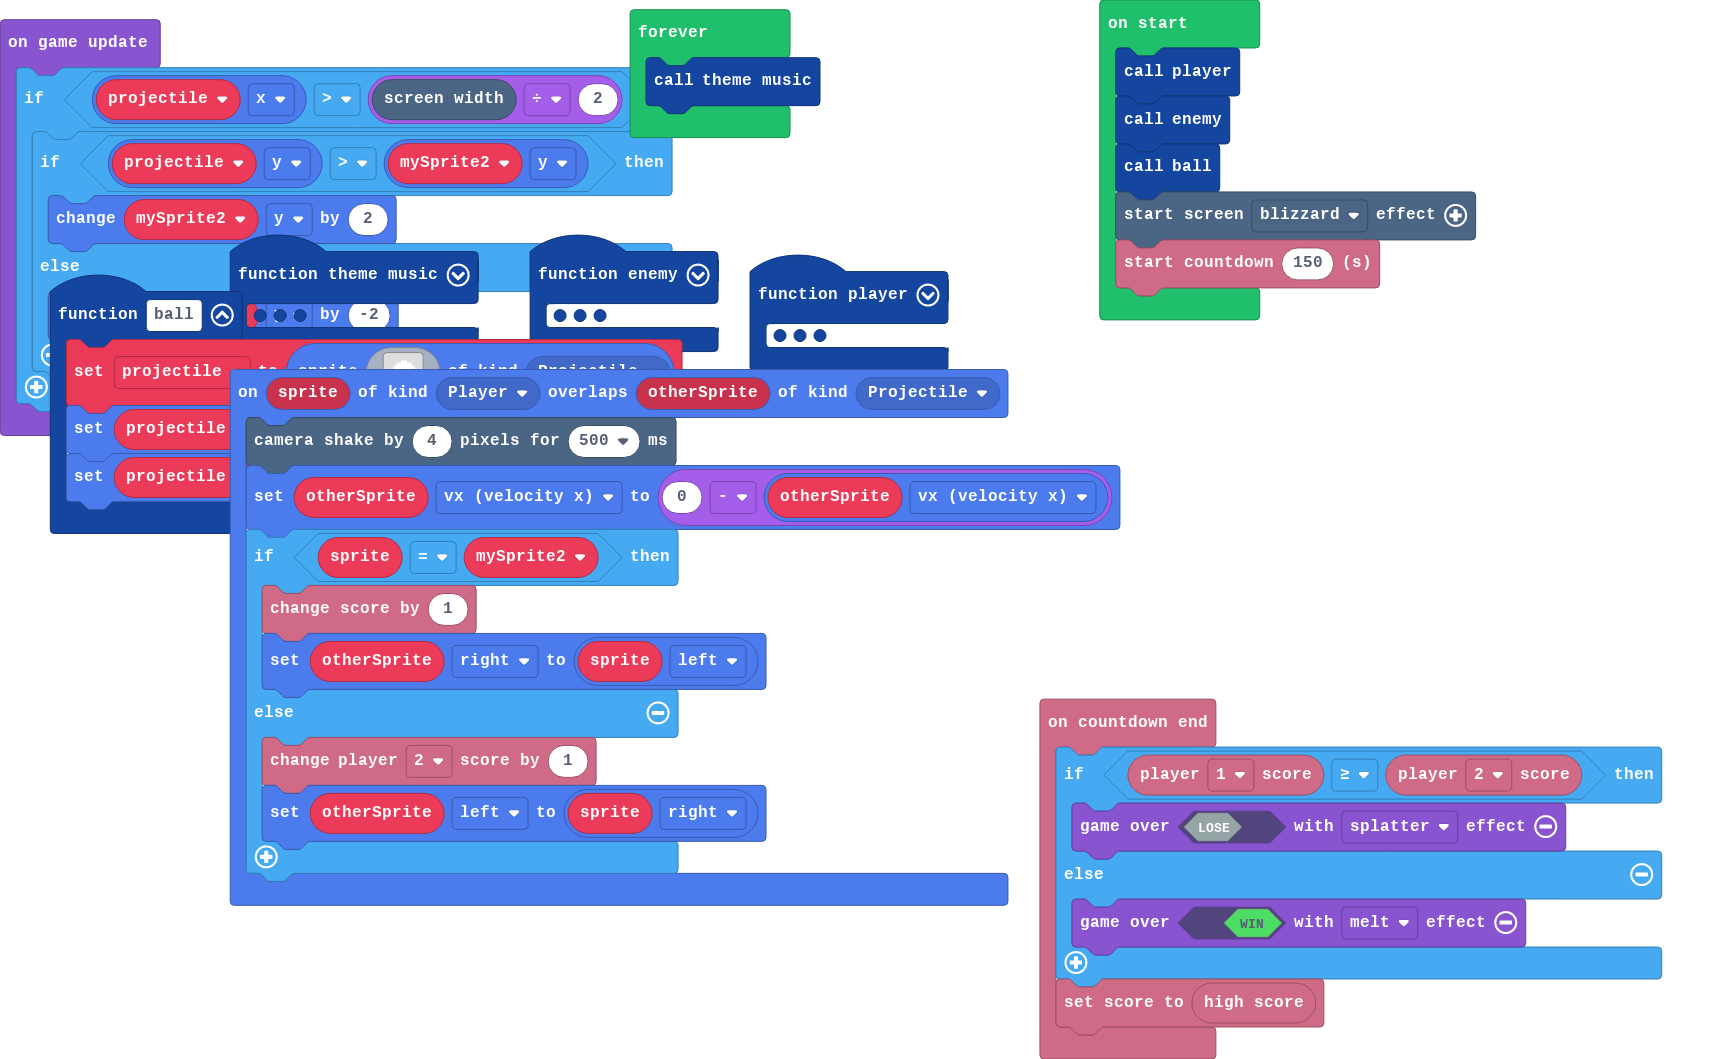
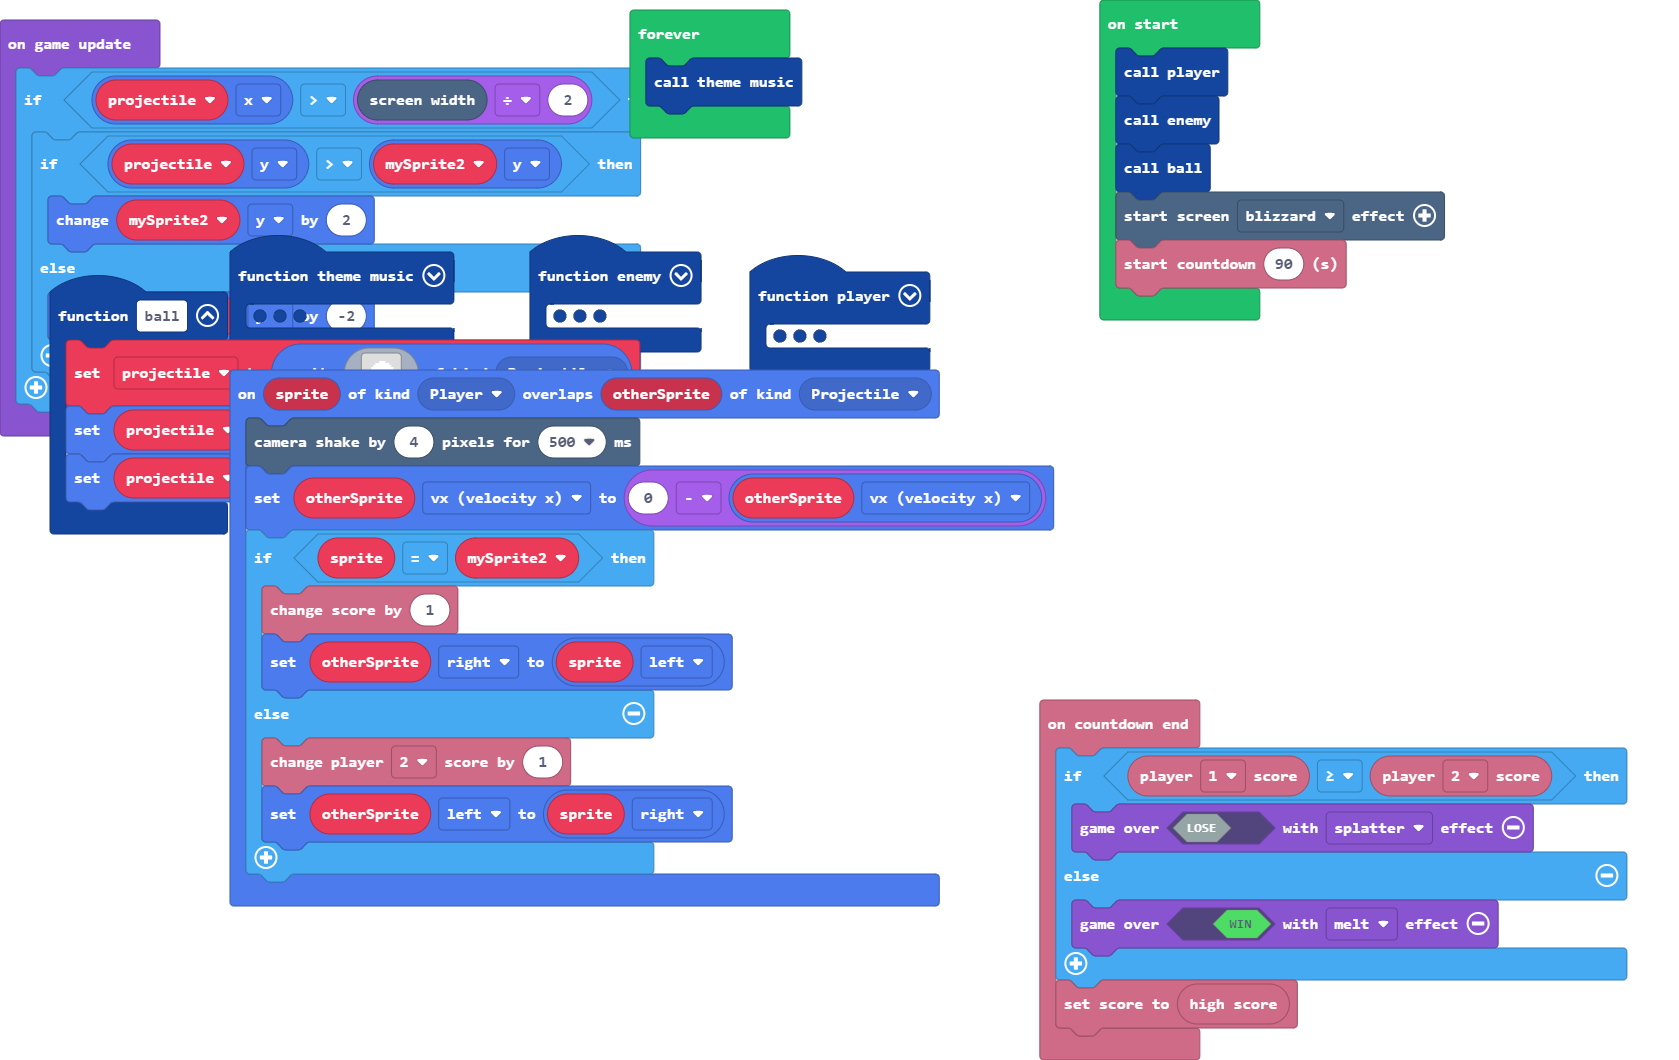
Update main.blocks, main.ts

diff --git a/main.ts b/main.ts
@@ -217,7 +217,7 @@ player2()
 enemy()
 ball()
 effects.blizzard.startScreenEffect()
-info.startCountdown(150)
+info.startCountdown(90)
 game.onUpdate(function () {
     if (projectile.x > scene.screenWidth() / 2) {
         if (projectile.y > mySprite2.y) {
